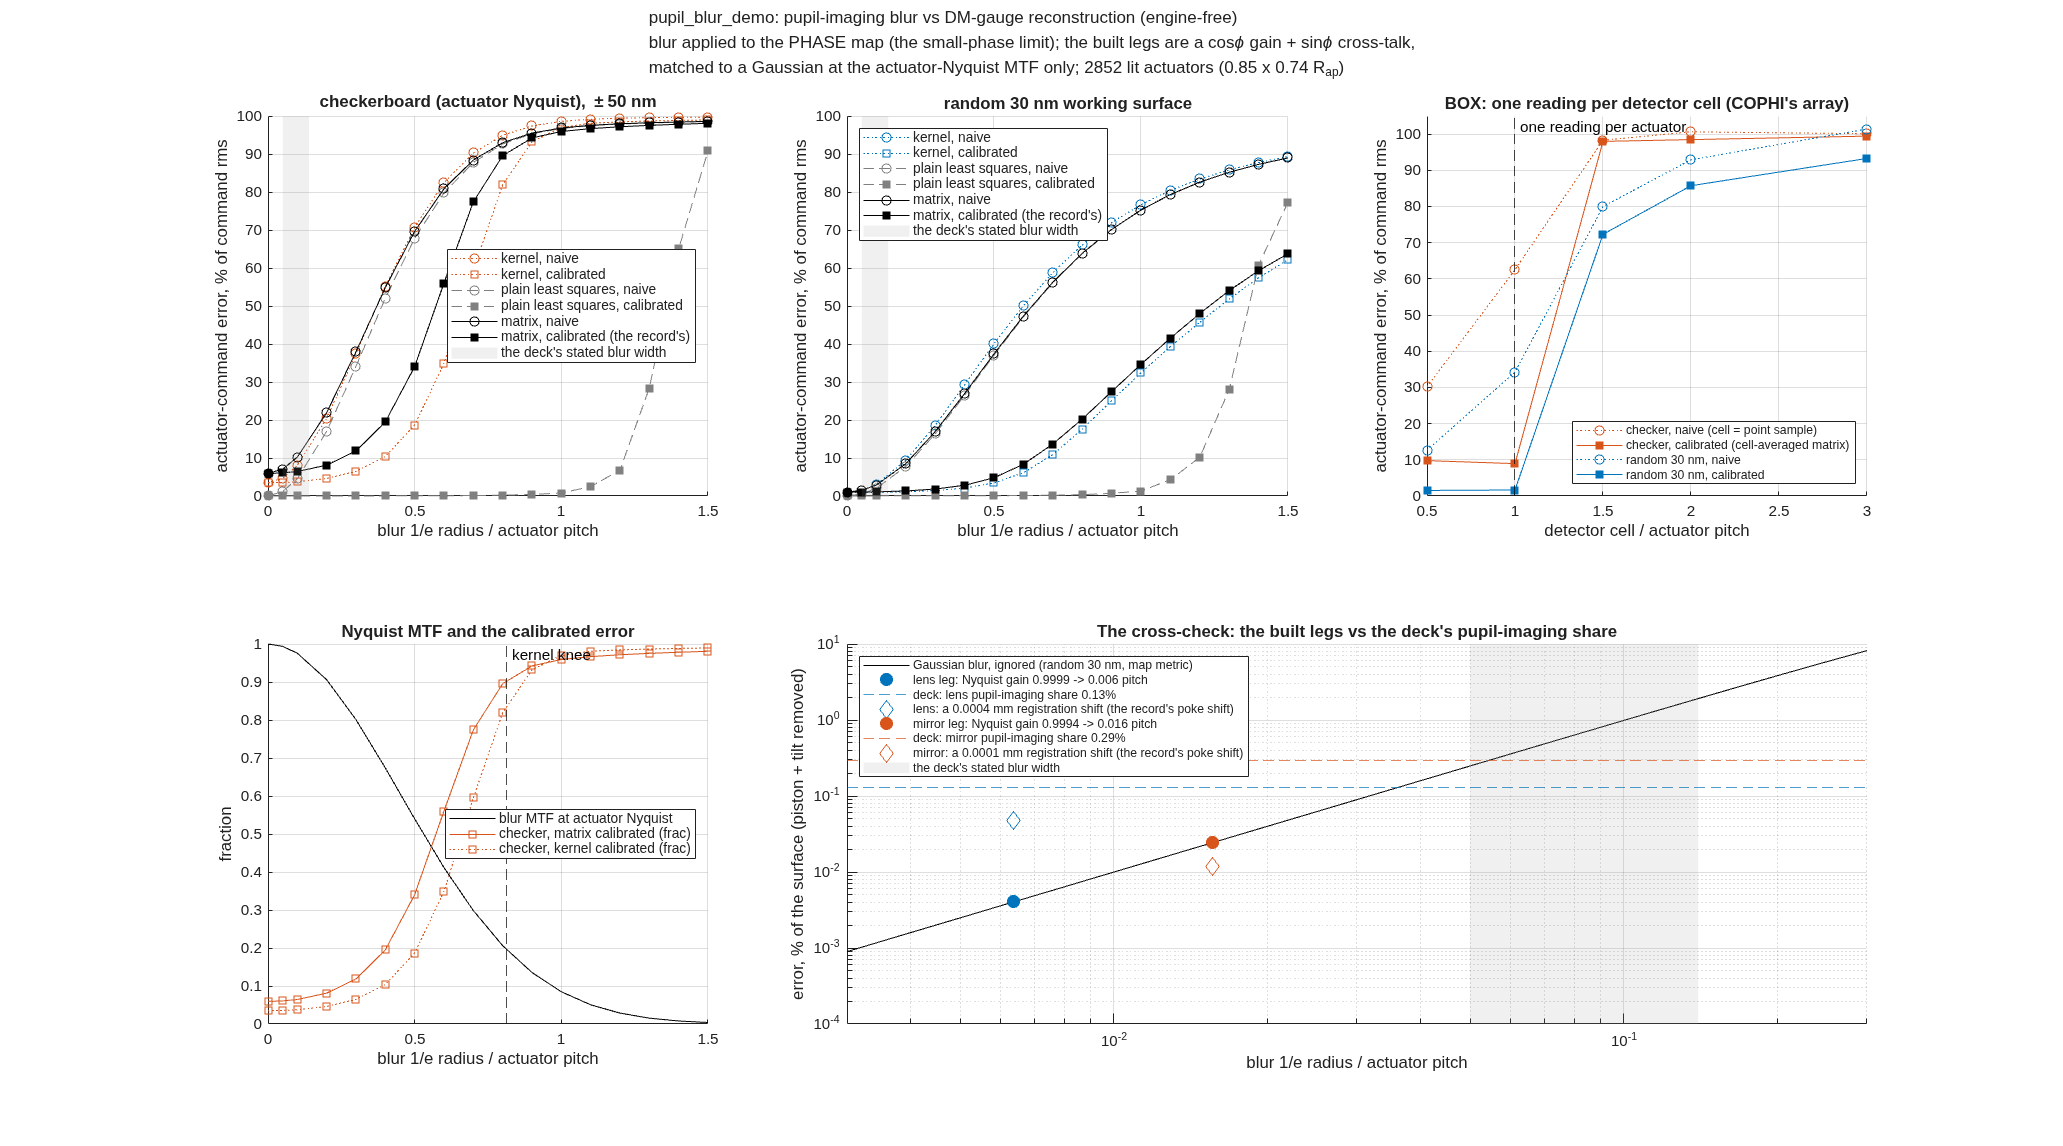
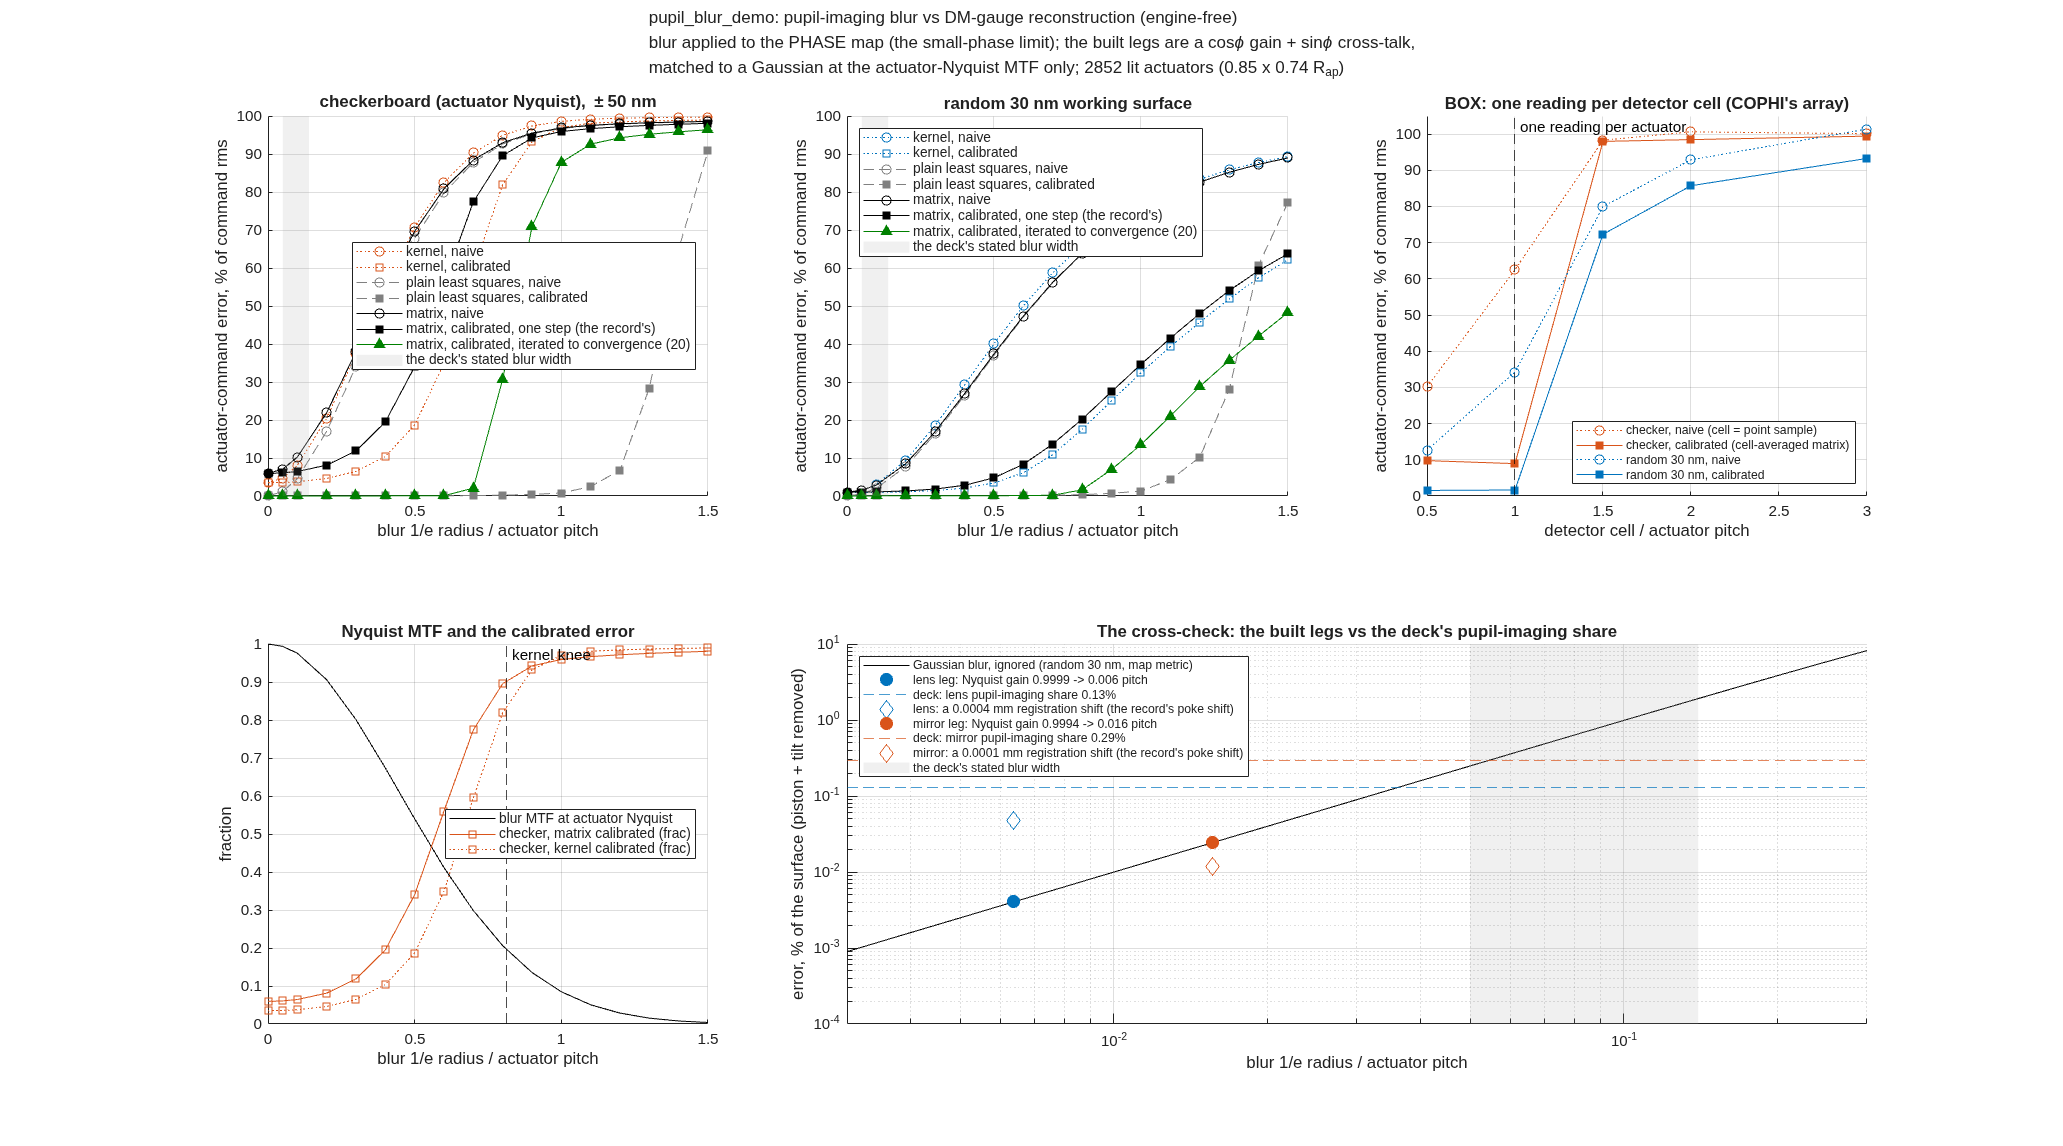
pupil_blur_demo: the regularized read driven to convergence (Dave 2026-10-09: a single regularized step is a shrunk estimate, not the estimator's accuracy; the servo applies it repeatedly) -- iterate_ (gain 1, 20 steps) in the sweep, the report and the curves; the maps figure as same-scale surfaces 

diff --git a/mmacos/templates/40_benches/tg_psi_dm96_oap/pupil_blur_demo.m b/mmacos/templates/40_benches/tg_psi_dm96_oap/pupil_blur_demo.m
@@ -58,6 +58,10 @@ function out = pupil_blur_demo(varargin)
 %                     regularization to speak of; the piston null needs a nonzero weight)
 %     'steps_sig' 0.5 the blur (PITCH units) of the step-by-step figure (deck_blur)
 %     'steps_zoom' 12 half-width (pitches) of that figure's zoom window about the centre
+%     'iters'  20     iterations of the regularized read driven to convergence (Dave
+%                     2026-10-09: a single regularized step is a shrunk estimate, not the
+%                     estimator's accuracy; the gauge's servo applies it repeatedly) --
+%                     a_{k+1} = a_k + est(m - blur(surface(a_k))), gain 1
 %     'lam_m_sweep' [1e-2 1e-3 1e-4]   the matrix's sigma = 0 sweep
 %     'legs'   {name, pupilsim report}  the built legs to place on the axis: each
 %                     record's stage-2 (as built) Nyquist gain line (sinusoid 0.5 cyc/mm,
@@ -82,7 +86,7 @@ o = struct('nact',96,'pitch',1.0,'infl_w',0.85,'sub',4, ...
            'work_nm',30,'poke_nm',50,'noise_pm',20,'lam',0.05,'lam_sweep',[0.05 1e-2 1e-3 1e-4],'hw',6, ...
            'sig_pitch',[0 0.05 0.1:0.1:1.5],'seed',7,'figures',true,'outdir','', ...
            'estimator','matrix','lam_m',1e-3,'lam_m_sweep',[1e-2 1e-3 1e-4],'lam_pinv',1e-9, ...
-           'steps_sig',0.5,'steps_zoom',12, ...
+           'steps_sig',0.5,'steps_zoom',12,'iters',20, ...
            'legs',{{'lens','runs/pupilsim_redo_lens/pupilsim_redo_lens_report.txt'; ...
                     'mirror','runs/pupilsim_redo_oap/pupilsim_redo_oap_report.txt'}}, ...
            'deck_share',[0.0013 0.0029], 'deck_band_mm',[0.05 0.14], ...
@@ -196,7 +200,7 @@ say('   bench reports in its own Stage D (runs/lensuw2: the (96,96) diagonal-Nyq
 if doG
 % ================= the blur sweep =================
 nS = numel(o.sig_pitch);
-blank = struct('naive',nan(1,nS),'cal',nan(1,nS),'mnaive',nan(1,nS),'mcal',nan(1,nS),'pnaive',nan(1,nS),'pcal',nan(1,nS));
+blank = struct('naive',nan(1,nS),'cal',nan(1,nS),'mnaive',nan(1,nS),'mcal',nan(1,nS),'pnaive',nan(1,nS),'pcal',nan(1,nS),'mcal_conv',nan(1,nS),'mnaive_conv',nan(1,nS));
 err = struct('checker',blank,'random',blank);
 mtfN = mtf(o.sig_pitch*pitch);
 say('---- the blur sweep: kernel (lambda %.3g of the stencil peak) and matrix (lambda_m %.0e of the column energy), lit unknowns ----\n', o.lam, o.lam_m);
@@ -216,11 +220,20 @@ for is = 1:nS
         err.(nm).mcal(is)   = relerr_(est_matrix_(m, Mxc, lit), pat.(nm), lit);
         err.(nm).pnaive(is) = relerr_(est_matrix_(m, Mp0, lit), pat.(nm), lit);
         err.(nm).pcal(is)   = relerr_(est_matrix_(m, Mpc, lit), pat.(nm), lit);
+        err.(nm).mcal_conv(is)   = relerr_(iterate_(m, @(r) est_matrix_(r, Mxc, lit), ic, N, Kinf, sig, dx, o.iters), pat.(nm), lit);
+        err.(nm).mnaive_conv(is) = relerr_(iterate_(m, @(r) est_matrix_(r, Mx0, lit), ic, N, Kinf, sig, dx, o.iters), pat.(nm), lit);
     end
     say('%6.3fmm %7.3f %7.4f | %7.3f%% %7.3f%% %8.4f%% %8.4f%% | %7.3f%% %7.3f%% %8.4f%% %8.4f%%\n', sig, o.sig_pitch(is), mtfN(is), ...
         100*err.checker.naive(is), 100*err.checker.cal(is), 100*err.checker.mnaive(is), 100*err.checker.mcal(is), ...
         100*err.random.naive(is),  100*err.random.cal(is),  100*err.random.mnaive(is),  100*err.random.mcal(is));
 end
+say('---- the same sweep, the record''s matrix read ITERATED TO CONVERGENCE (%d steps, gain 1: the servo''s use of the estimator) ----\n', o.iters);
+say('%-8s %7s | %-20s | %-20s\n','blur','sig/pit','checker: naive / cal','random: naive / cal');
+for is = 1:nS
+    say('%6.3fmm %7.3f | %8.4f%% %8.4f%% | %8.4f%% %8.4f%%\n', o.sig_pitch(is)*pitch, o.sig_pitch(is), ...
+        100*err.checker.mnaive_conv(is), 100*err.checker.mcal_conv(is), 100*err.random.mnaive_conv(is), 100*err.random.mcal_conv(is));
+end
+say('\n');
 say('---- the same sweep, PLAIN least squares (lambda %.0e: no regularization to speak of) ----\n', o.lam_pinv);
 say('%-8s %7s | %-20s | %-20s\n','blur','sig/pit','checker: naive / cal','random: naive / cal');
 for is = 1:nS
@@ -362,7 +375,8 @@ for p = 1:2
     plot(sp, 100*e.pnaive,'--o','Color', [.5 .5 .5], 'DisplayName', 'plain least squares, naive');
     plot(sp, 100*e.pcal,  '--s','Color', [.5 .5 .5], 'MarkerFaceColor', [.5 .5 .5], 'DisplayName', 'plain least squares, calibrated');
     plot(sp, 100*e.mnaive,'-o', 'Color', 'k',   'DisplayName', 'matrix, naive');
-    plot(sp, 100*e.mcal,  '-s', 'Color', 'k', 'MarkerFaceColor', 'k', 'DisplayName', 'matrix, calibrated (the record''s)');
+    plot(sp, 100*e.mcal,  '-s', 'Color', 'k', 'MarkerFaceColor', 'k', 'DisplayName', 'matrix, calibrated, one step (the record''s)');
+    plot(sp, 100*e.mcal_conv, '-^', 'Color', [0 .5 0], 'MarkerFaceColor', [0 .5 0], 'DisplayName', sprintf('matrix, calibrated, iterated to convergence (%d)', o.iters));
     patch([o.deck_band_mm fliplr(o.deck_band_mm)]/pitch, [0 0 100 100], [.6 .6 .6], 'FaceAlpha', .15, 'EdgeColor', 'none', 'DisplayName', 'the deck''s stated blur width');
     xlabel('blur 1/e radius / actuator pitch'); ylabel('actuator-command error, % of command rms');
     title(ttl{p}); legend('Location', iff_(p == 1, 'east', 'northwest')); ylim([0 100]);
@@ -407,55 +421,71 @@ sgtitle({'pupil\_blur\_demo: pupil-imaging blur vs DM-gauge reconstruction (engi
 print(fc, fullfile(o.outdir,'pupil_blur_demo_curve.png'),'-dpng','-r110');
 
 if doG
-is0 = find(o.sig_pitch >= 0.5,1);  if isempty(is0), is0 = nS; end
+% ---- the maps figure (Dave 2026-10-09): the checkerboard at one blur, as SURFACES on ONE
+% scale -- [true | blurred | reconstructed | error], one row per read (plain least squares
+% without and with calibration), zoomed to the centre so the lit edge's unbalanced bumps
+% (the ring that set the old colour scale and hid the interior) are out of view.
+is0 = find(o.sig_pitch >= o.steps_sig,1);  if isempty(is0), is0 = nS; end
 sig0 = o.sig_pitch(is0)*pitch;  Mub0 = blur_(Mu,sig0,dx);
 rng(o.seed + is0);  m0 = blur_(surf.checker,sig0,dx) + noise();
-aN = act_fit_lit_(m0,ic,stn_true,lit,o.lam);  aC = est_matrix_(m0, matrix_(Mub0, ic, ilit, pix, Am, o.lam_m), lit);
-fm = figure('Visible','off','Position',[100 100 1500 480]);
-subplot(1,4,1); imagesc(xg,xg,surf.checker*1e6); axis image off; colorbar; title('true surface, nm');
-subplot(1,4,2); imagesc(xg,xg,m0*1e6); axis image off; colorbar; title(sprintf('blurred (\\sigma=%.1f pitch), nm',o.sig_pitch(is0)));
-subplot(1,4,3); imagesc(xa,xa,(aN-pat.checker)*1e9.*lit); axis image off; colorbar; title(sprintf('kernel naive cmd error, pm (%.1f%%)',100*err.checker.naive(is0)));
-subplot(1,4,4); imagesc(xa,xa,(aC-pat.checker)*1e9.*lit); axis image off; colorbar; title(sprintf('matrix calibrated cmd error, pm (%.2f%%)',100*err.checker.mcal(is0)));
-sgtitle(sprintf('pupil\\_blur\\_demo: the checkerboard (actuator Nyquist) at \\sigma = %.1f pitch',o.sig_pitch(is0)));
-print(fm, fullfile(o.outdir,'pupil_blur_demo_maps.png'),'-dpng','-r110');
-% ---- the step-by-step figure (deck_blur, Dave 2026-10-09): the random 30 nm working
-% surface -> blurred (what the camera sees) -> reconstructed without and with
-% calibration, as SURFACES rebuilt from the recovered commands, zoomed to the centre;
-% one row for the plain least-squares read, one for the deck's (the record's matrix)
-sigS = o.steps_sig*pitch;  MubS = blur_(Mu, sigS, dx);
-rng(o.seed + 77);  mS = blur_(surf.random, sigS, dx) + noise();
-est = {@(m) est_matrix_(m, Mp0, lit),                                          @(m) est_matrix_(m, matrix_(MubS, ic, ilit, pix, Am, o.lam_pinv), lit); ...
-       @(m) est_matrix_(m, Mx0, lit),                                          @(m) est_matrix_(m, matrix_(MubS, ic, ilit, pix, Am, o.lam_m), lit)};
-rown = {sprintf('plain least squares (\\lambda %.0e)', o.lam_pinv), sprintf('the deck''s reconstructor (matrix, \\lambda_m %.0e)', o.lam_m)};
-z = abs(xg) <= o.steps_zoom*pitch;  xz = xg(z);
-sz = surf.random(z,z);  cl = max(abs(sz(:)))*1e6*[-1 1];
-fs = figure('Visible','off','Position',[100 100 1800 760]);
-steps = struct('sig_pitch', o.steps_sig, 'err', nan(2,2), 'surf_rms_nm', nan(2,3));
+aN = est_matrix_(m0, Mp0, lit);  aC = est_matrix_(m0, matrix_(Mub0, ic, ilit, pix, Am, o.lam_pinv), lit);
+hN = build_surf_(aN, ic, N, Kinf);  hC = build_surf_(aC, ic, N, Kinf);
+z = abs(xg) <= o.steps_zoom*pitch;  xz = xg(z);  sz = surf.checker(z,z);  cl = max(abs(sz(:)))*1e6*[-1 1];
+rows = {hN, 'without calibration', relerr_(aN, pat.checker, lit); hC, 'with calibration', relerr_(aC, pat.checker, lit)};
+fm = figure('Visible','off','Position',[100 100 1800 760]);
 for r = 1:2
-    aN = est{r,1}(mS);  aC = est{r,2}(mS);
-    hN = build_surf_(aN, ic, N, Kinf);  hC = build_surf_(aC, ic, N, Kinf);
-    steps.err(r,:) = [relerr_(aN, pat.random, lit), relerr_(aC, pat.random, lit)];
-    dN = (hN - surf.random);  dC = (hC - surf.random);
-    steps.surf_rms_nm(r,:) = 1e6*[sqrt(mean((mS(msk)-surf.random(msk)).^2)), sqrt(mean(dN(msk).^2)), sqrt(mean(dC(msk).^2))];
-    pan = {surf.random, mS, hN, hC};
-    ttl = {'the DM surface (true), nm', sprintf('blurred, \\sigma = %.1f pitch: what the camera sees', o.steps_sig), ...
-           sprintf('reconstructed WITHOUT calibration (%.1f %% command error)', 100*steps.err(r,1)), ...
-           sprintf('reconstructed WITH calibration (%.2f %% command error)', 100*steps.err(r,2))};
+    h = rows{r,1};  pan = {surf.checker, m0, h, h - surf.checker};
+    ttl = {'true surface, nm', sprintf('blurred, \\sigma = %.1f pitch', o.sig_pitch(is0)), ...
+           sprintf('reconstructed %s (%.2f %% command error)', rows{r,2}, 100*rows{r,3}), ...
+           sprintf('error, reconstructed - true (%.2f nm rms)', 1e6*sqrt(mean(reshape(pan{4}(z,z),[],1).^2)))};
     for c = 1:4
         subplot(2,4,(r-1)*4+c); imagesc(xz, xz, pan{c}(z,z)*1e6); axis image; set(gca,'YDir','normal'); caxis(cl); colormap(gray);
-        title(ttl{c}, 'FontSize', 9);  if c == 1, ylabel({rown{r}, 'DM mm'}, 'FontSize', 10); end
+        title(ttl{c}, 'FontSize', 9);  if c == 1, ylabel({sprintf('plain least squares, %s', rows{r,2}), 'DM mm'}, 'FontSize', 10); end
+        if c == 4, pos4 = get(gca,'Position'); cb = colorbar('Position', [pos4(1)+pos4(3)+0.008, pos4(2), 0.01, pos4(4)]); cb.Label.String = 'nm'; end
+        if r == 2, xlabel('DM mm'); end
+    end
+end
+sgtitle(sprintf('pupil\\_blur\\_demo: the \\pm%.0f nm checkerboard (actuator Nyquist) at \\sigma = %.1f pitch, centre %d x %d pitches, one gray scale (\\pm%.0f nm)', ...
+    o.poke_nm, o.sig_pitch(is0), 2*o.steps_zoom, 2*o.steps_zoom, cl(2)), 'FontSize', 11);
+print(fm, fullfile(o.outdir,'pupil_blur_demo_maps.png'),'-dpng','-r200');
+% ---- the step-by-step figure (deck_blur, Dave 2026-10-09): the random 30 nm working
+% surface -> blurred (what the camera sees) -> reconstructed -> error, as SURFACES on ONE
+% gray scale, zoomed to the centre; four rows: plain least squares without / with
+% calibration, then the deck's reconstructor (the record's matrix) without / with.
+sigS = o.steps_sig*pitch;  MubS = blur_(Mu, sigS, dx);
+rng(o.seed + 77);  mS = blur_(surf.random, sigS, dx) + noise();
+MpS = matrix_(MubS, ic, ilit, pix, Am, o.lam_pinv);  MxS = matrix_(MubS, ic, ilit, pix, Am, o.lam_m);
+est  = {@(m) est_matrix_(m, Mp0, lit), @(m) est_matrix_(m, MpS, lit), @(m) est_matrix_(m, Mx0, lit), @(m) est_matrix_(m, MxS, lit), ...
+        @(m) iterate_(m, @(r) est_matrix_(r, Mx0, lit), ic, N, Kinf, sigS, dx, o.iters), @(m) iterate_(m, @(r) est_matrix_(r, MxS, lit), ic, N, Kinf, sigS, dx, o.iters)};
+rown = {sprintf('plain least squares (\\lambda %.0e)', o.lam_pinv), 'without calibration'; sprintf('plain least squares (\\lambda %.0e)', o.lam_pinv), 'with calibration'; ...
+        sprintf('the deck''s reconstructor (\\lambda_m %.0e), one step', o.lam_m), 'without calibration'; sprintf('the deck''s reconstructor (\\lambda_m %.0e), one step', o.lam_m), 'with calibration'; ...
+        sprintf('the deck''s reconstructor, iterated (%d)', o.iters), 'without calibration'; sprintf('the deck''s reconstructor, iterated (%d)', o.iters), 'with calibration'};
+z = abs(xg) <= o.steps_zoom*pitch;  xz = xg(z);
+sz = surf.random(z,z);  cl = max(abs(sz(:)))*1e6*[-1 1];
+fs = figure('Visible','off','Position',[100 100 1800 2200]);
+steps = struct('sig_pitch', o.steps_sig, 'err', nan(1,6), 'surf_rms_nm', nan(1,6), 'blur_rms_nm', 1e6*sqrt(mean((mS(msk)-surf.random(msk)).^2)));
+for r = 1:6
+    a = est{r}(mS);  h = build_surf_(a, ic, N, Kinf);  d = h - surf.random;
+    steps.err(r) = relerr_(a, pat.random, lit);  steps.surf_rms_nm(r) = 1e6*sqrt(mean(d(msk).^2));
+    pan = {surf.random, mS, h, d};
+    ttl = {'the DM surface (true), nm', sprintf('blurred, \\sigma = %.1f pitch: what the camera sees', o.steps_sig), ...
+           sprintf('reconstructed %s (%.2f %% command error)', rown{r,2}, 100*steps.err(r)), ...
+           sprintf('error, reconstructed - true (%.3f nm rms)', steps.surf_rms_nm(r))};
+    for c = 1:4
+        subplot(6,4,(r-1)*4+c); imagesc(xz, xz, pan{c}(z,z)*1e6); axis image; set(gca,'YDir','normal'); caxis(cl); colormap(gray);
+        title(ttl{c}, 'FontSize', 9);  if c == 1, ylabel({rown{r,1}, rown{r,2}, 'DM mm'}, 'FontSize', 9); end
         if c == 4   % a manually placed colorbar does not shrink the panel (a smaller raster reads as a grainier surface)
             pos4 = get(gca, 'Position');
             cb = colorbar('Position', [pos4(1)+pos4(3)+0.008, pos4(2), 0.01, pos4(4)]);  cb.Label.String = 'nm';
         end
-        if r == 2, xlabel('DM mm'); end
+        if r == 6, xlabel('DM mm'); end
     end
 end
-sgtitle(sprintf('pupil\\_blur\\_demo, step by step: the 30 nm working surface, blur 1/e radius %.1f actuator pitch (%.0f %% MTF at the actuator Nyquist), centre %d x %d pitches', ...
-    o.steps_sig, 100*mtf(sigS), 2*o.steps_zoom, 2*o.steps_zoom), 'FontSize', 11);
+sgtitle(sprintf('pupil\\_blur\\_demo, step by step: the 30 nm working surface, blur 1/e radius %.1f actuator pitch (%.0f %% MTF at the actuator Nyquist), centre %d x %d pitches, one gray scale (\\pm%.0f nm)', ...
+    o.steps_sig, 100*mtf(sigS), 2*o.steps_zoom, 2*o.steps_zoom, cl(2)), 'FontSize', 11);
 print(fs, fullfile(o.outdir,'pupil_blur_demo_steps.png'),'-dpng','-r200');   % 200 dpi: the deck crops each row at full width
-say('steps figure (sigma %.1f pitch, random 30 nm): command error naive/cal -- plain LSQ %.2f%% / %.3f%%; matrix %.2f%% / %.3f%%; surface rms vs true (nm): blurred %.2f, naive %.2f / %.2f, cal %.3f / %.3f\n', ...
-    o.steps_sig, 100*steps.err(1,1), 100*steps.err(1,2), 100*steps.err(2,1), 100*steps.err(2,2), steps.surf_rms_nm(1,1), steps.surf_rms_nm(1,2), steps.surf_rms_nm(2,2), steps.surf_rms_nm(1,3), steps.surf_rms_nm(2,3));
+say('steps figure (sigma %.1f pitch, random 30 nm; blurred surface %.2f nm rms from true): command error plain LSQ naive/cal %.2f%% / %.3f%%, matrix one step naive/cal %.2f%% / %.3f%%, matrix iterated (%d) naive/cal %.2f%% / %.4f%%; reconstructed surface rms vs true (nm) %.2f / %.3f / %.2f / %.3f / %.2f / %.4f\n', ...
+    o.steps_sig, steps.blur_rms_nm, 100*steps.err(1), 100*steps.err(2), 100*steps.err(3), 100*steps.err(4), o.iters, 100*steps.err(5), 100*steps.err(6), steps.surf_rms_nm);
 out_steps = steps;
 end
 end
@@ -577,6 +607,15 @@ function b = shift_(h, d, dx)
 % the map translated by d (mm) along x and y equally (|shift| = d), exactly, by a Fourier phase ramp
 N = size(h,1);  f = ifftshift(((0:N-1) - floor(N/2))/(N*dx));  [FX,FY] = meshgrid(f,f);
 b = real(ifft2(fft2(h).*exp(-2i*pi*(FX+FY)*d/sqrt(2))));
+end
+function a = iterate_(m, est, ic, N, Kinf, sig, dx, iters)
+% the estimator driven to convergence as a servo uses it (gain 1): the current estimate's
+% surface is blurred like the measurement and subtracted; the residual is read again
+a = est(m);
+for k = 2:iters
+    r = m - blur_(build_surf_(a, ic, N, Kinf), sig, dx);
+    a = a + est(r);
+end
 end
 function r = rmsp_(a, lit), x = a(lit) - mean(a(lit));  r = sqrt(mean(x.^2)); end
 function e = maperr_(hb, h, X, Y, R)
